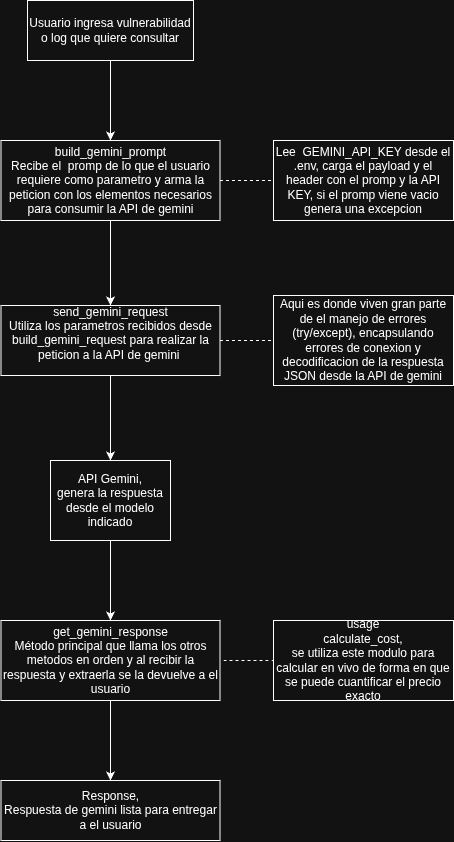
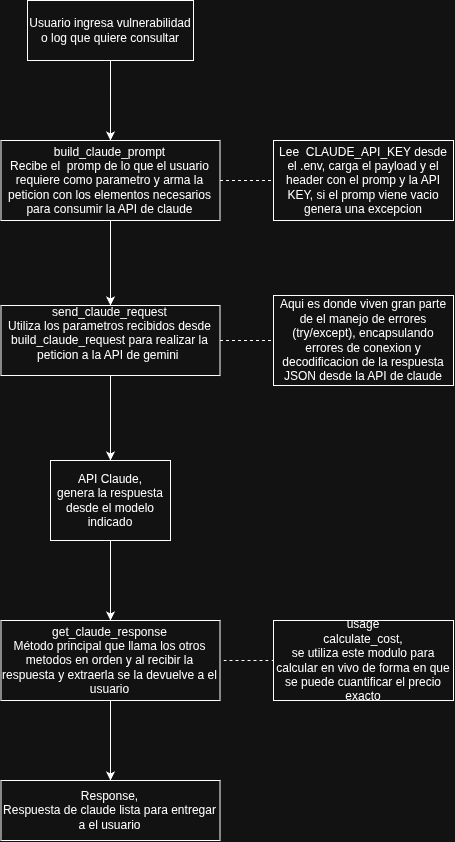
Modificacion nombres por decision de nueva arquitectura

diff --git a/src/api_claude_refactor.py b/src/api_claude_refactor.py
@@ -7,7 +7,7 @@ from dotenv import load_dotenv
 
 load_dotenv()
 
-def build_gemini_prompt(prompt):
+def build_claude_prompt(prompt):
     if not prompt:
         raise ValueError("La entrada no puede estar vacía. Por favor, proporciona un prompt válido.")
     url = "https://generativelanguage.googleapis.com/v1beta/interactions"
@@ -22,7 +22,7 @@ def build_gemini_prompt(prompt):
     }
     return url, headers, payload
 
-def send_gemini_request(url, headers, payload):
+def send_claude_request(url, headers, payload):
     try:
         response = requests.post(url, headers=headers, data=payload)
     except requests.exceptions.ConnectionError as e:
@@ -43,19 +43,19 @@ def calculate_cost(response, input_pricing, output_pricing):
     except (KeyError, IndexError) as e:
         raise RuntimeError(f"Error calculando el costo: {e}")
 
-def extract_gemini_response(data):
+def extract_claude_response(data):
     try:
         return data["steps"][1]["content"][0].get("text", "No se encontro texto en la respuesta")
     except (KeyError, IndexError) as e:
         raise RuntimeError(f"Error extrayendo la respuesta: {e}")
 
-def get_gemini_response(prompt):
+def get_claude_response(prompt):
     try:
-        url, headers, payload = build_gemini_prompt(prompt)
-        response = send_gemini_request(url, headers, payload)
+        url, headers, payload = build_claude_prompt(prompt)
+        response = send_claude_request(url, headers, payload)
         cost = calculate_cost(response, input_pricing=0.0001, output_pricing=0.0002)
         print (f"Costo calculado: {cost}")
-        return extract_gemini_response(response)
+        return extract_claude_response(response)
     except KeyError as ve:
         print(f"Error extract response: {ve}")
     except Exception as e:
@@ -64,9 +64,9 @@ def get_gemini_response(prompt):
 def latency_test(ciclos: int = 5):
     latencies = []
     for i in range(ciclos):
-        url, headers, payload = build_gemini_prompt("Cuanto es 2 + 2? Dame solo el resultado")
+        url, headers, payload = build_claude_prompt("Cuanto es 2 + 2? Dame solo el resultado")
         index = time.time()
-        data = send_gemini_request(url, headers, payload)
+        data = send_claude_request(url, headers, payload)
         duration = time.time() - index
         print(f"Duración de la petición {i + 1}: {duration} segundos")
         latencies.append(duration)
@@ -74,7 +74,7 @@ def latency_test(ciclos: int = 5):
     print(f"Latencia promedio después de {ciclos} ciclos: {prom_latency} segundos")  
     
 if __name__ == "__main__":
-    response, cost = get_gemini_response("Confirma en una frase corta que esta conexion funciona correctamente.")
+    response, cost = get_claude_response("Confirma en una frase corta que esta conexion funciona correctamente.")
     print(f"Respuesta: {response}")
     print(f"Costo: {cost}")
     latency_test(10)

diff --git a/src/main.py b/src/main.py
@@ -1,10 +1,10 @@
 import os
-from api_gemini_refactor import get_gemini_response
+from api_claude_refactor import get_claude_response
 
-#Llamar a la función get_gemini_response desde gemini.py
+#Llamar a la función get_claude_response desde claude.py
 prompt = "Confirma en una frase corta que esta conexion funciona correctamente."
 try:
-    response = get_gemini_response(prompt)
+    response = get_claude_response(prompt)
     print(response)
 except (ValueError, RuntimeError) as ve:
     print(f"Error: {ve}")

diff --git a/docs/decision_arquitectura.md b/docs/decision_arquitectura.md
@@ -6,7 +6,7 @@ Claude sonnet 5.5 para la funcion principal de la miniaplicacion
 
 ## Diagrama de arquitectura
 
-El diagrama de arquitectura se encuentra en la ruta docs/diagrama_arquitectura.png, se aclara que el diagrama de arquitectura sera modificado al igual que los metodos ya que se comenzo con el modelo de Gemini en las primeras etapas y la arquitectura sera migrada a consultar modelos de Claude.
+El diagrama de arquitectura se encuentra en la ruta docs/diagrama_arquitectura.png
  
 ## Comparación de candidatos
 
